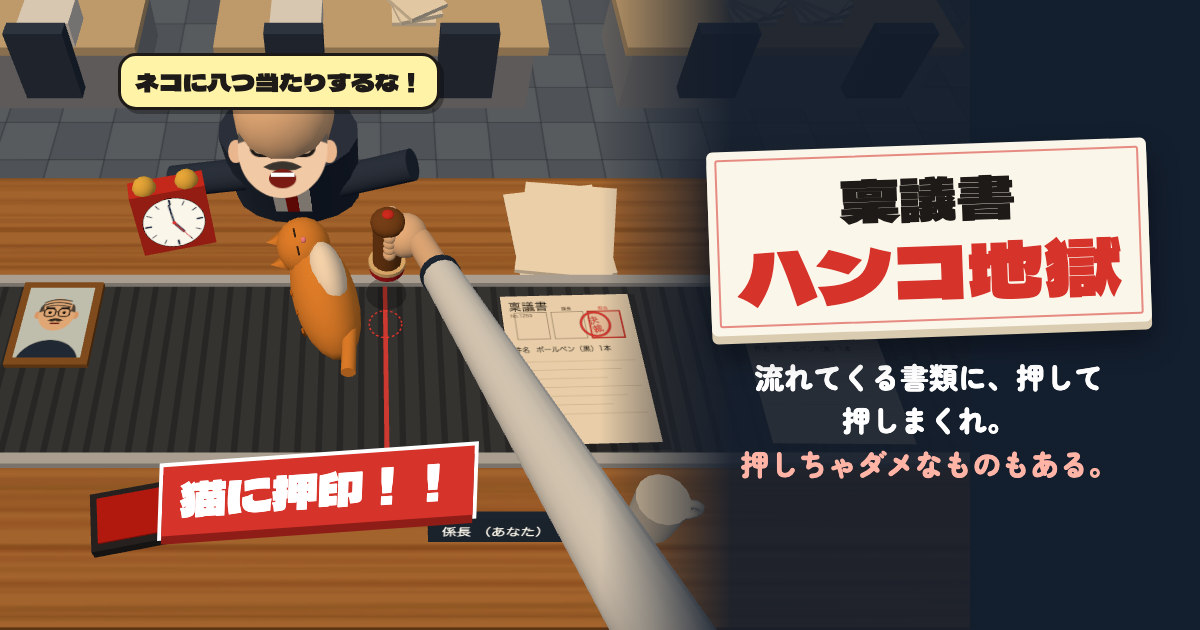
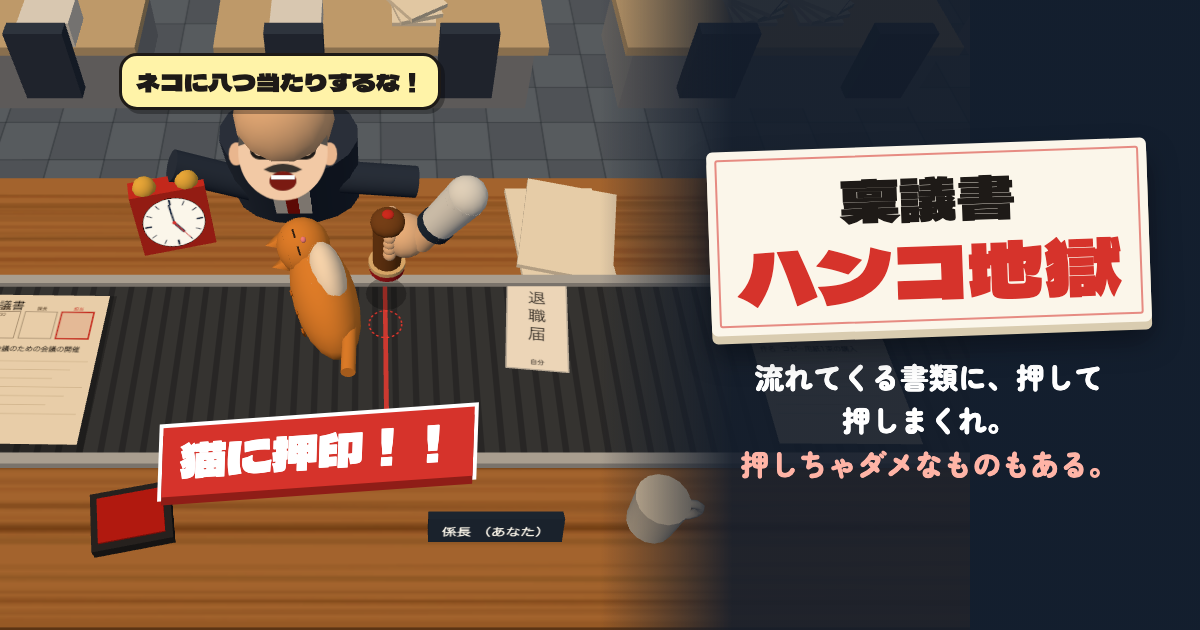
腕を手首から先だけにして書類と赤い線をふさがない・霧を薄く

diff --git a/game.js b/game.js
@@ -73,7 +73,7 @@ renderer.setPixelRatio(Math.min(2, window.devicePixelRatio || 1))
 renderer.outputColorSpace = THREE.SRGBColorSpace
 const scene = new THREE.Scene()
 scene.background = new THREE.Color('#3b4a63')
-scene.fog = new THREE.Fog('#3b4a63', 22, 48)
+scene.fog = new THREE.Fog('#3b4a63', 34, 70)
 const camera = new THREE.PerspectiveCamera(38, 1, 0.1, 120)
 scene.add(new THREE.HemisphereLight('#fff4e2', '#4a5466', 1.25))
 const sun = new THREE.DirectionalLight('#ffd9a8', 1.7); sun.position.set(-5, 9, 4); scene.add(sun)
@@ -281,19 +281,22 @@ const REST_Y = 1.35
   hk.add(mesh(G.sph, skin, 0.08, 0.07, 0.13, 0.05, 0.72, -0.2))
   hand.g.add(hk)
   const cuff = mesh(G.cyl, LAMB('#22324a'), 0.23, 0.22, 0.23, 0, 0, 0); hand.cuff = cuff; hand.g.add(cuff)
-  const arm = mesh(new THREE.CylinderGeometry(1.9, 1, 1, 16), LAMB('#e8f0fa'), 0.2, 1, 0.2, 0, 0, 0); hand.arm = arm; hand.g.add(arm)
+  const arm = mesh(new THREE.CylinderGeometry(1.15, 1, 1, 16), LAMB('#e8f0fa'), 0.2, 1, 0.2, 0, 0, 0); hand.arm = arm; hand.g.add(arm)
+  const armEnd = mesh(G.sph, LAMB('#e8f0fa'), 0.23, 0.23, 0.23, 0, 0, 0); hand.armEnd = armEnd; hand.g.add(armEnd)
   const fore = mesh(G.cyl, skin, 0.17, 1, 0.17, 0, 0, 0); hand.fore = fore; hand.g.add(fore)
   scene.add(hand.g)
   hand.blob = new THREE.Mesh(new THREE.CircleGeometry(0.3, 20), shadowMat.clone()); hand.blob.rotation.x = -Math.PI / 2; hand.blob.position.set(STX, BELT_Y + 0.02, BOX_Z); scene.add(hand.blob)
 }
-const SHOULDER = new THREE.Vector3(3.0, 7.5, 11.0), _v = new THREE.Vector3(), _q = new THREE.Quaternion(), UP = new THREE.Vector3(0, 1, 0)
+const ARM_DIR = new THREE.Vector3(0.55, 1, 0.12).normalize(), ARM_LEN = 0.95, _v = new THREE.Vector3(), _q = new THREE.Quaternion(), UP = new THREE.Vector3(0, 1, 0)
 function placeHand() {
   const hk = hand.hk; hk.position.set(STX, hand.y, BOX_Z); hk.scale.set(1 + hand.sq * 0.12, 1 - hand.sq * 0.12, 1 + hand.sq * 0.12)
   const wrist = _v.set(STX + 0.36, hand.y + 0.6, BOX_Z + 0.08)
-  const dir = SHOULDER.clone().sub(wrist), len = dir.length(); dir.normalize()
-  const fl = Math.min(0.9, len * 0.3); _q.setFromUnitVectors(UP, dir)
+  // 腕は手首から先だけ。ハンコの真上から右上へ短く逃がし、ベルトの書類と赤い線をふさがない
+  const dir = ARM_DIR, len = ARM_LEN
+  const fl = 0.35; _q.setFromUnitVectors(UP, dir)
   hand.fore.position.copy(wrist).addScaledVector(dir, fl / 2); hand.fore.scale.set(0.15, fl, 0.15); hand.fore.quaternion.copy(_q)
   hand.arm.position.copy(wrist).addScaledVector(dir, fl + (len - fl) / 2); hand.arm.scale.set(0.2, len - fl, 0.2); hand.arm.quaternion.copy(_q)
+  hand.armEnd.position.copy(wrist).addScaledVector(dir, len)
   hand.cuff.position.copy(wrist).addScaledVector(dir, fl); hand.cuff.scale.set(0.215, 0.1, 0.215); hand.cuff.quaternion.copy(_q)
   const h = clamp((hand.y - hand.contact) / 1.3, 0, 1); hand.blob.scale.setScalar(0.6 + h * 0.6); hand.blob.material.opacity = 0.35 - h * 0.2; hand.blob.position.y = hand.contact + 0.006
 }

diff --git a/index.html b/index.html
@@ -100,7 +100,7 @@ kbd{font-family:inherit;font-weight:900;font-size:.9em;background:var(--paper);c
 .hclock i{position:absolute;left:0;bottom:0;height:4px;background:var(--red);width:100%}
 .hscore{flex:0 1 150px}
 .hdone{flex:none}
-#combo{position:absolute;left:0;top:calc(100% + 8px);font-family:var(--disp);font-size:17px;color:var(--ink);background:var(--gold);padding:2px 14px 4px;border-radius:99px;box-shadow:0 3px 0 var(--gold-dk);pointer-events:none;white-space:nowrap;opacity:0;transition:opacity .2s}
+#combo{position:absolute;left:0;transform-origin:left center;top:calc(100% + 8px);font-family:var(--disp);font-size:17px;color:var(--ink);background:var(--gold);padding:2px 14px 4px;border-radius:99px;box-shadow:0 3px 0 var(--gold-dk);pointer-events:none;white-space:nowrap;opacity:0;transition:opacity .2s}
 #combo.on{opacity:1}
 #combo.bump{animation:cpop .25s ease-out}
 @keyframes cpop{from{transform:scale(1.5)}to{transform:scale(1)}}
